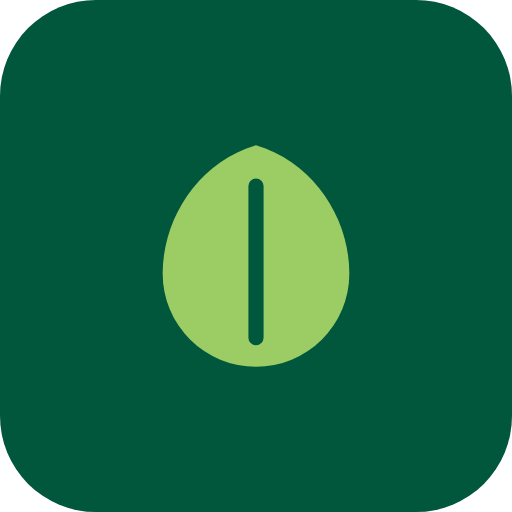
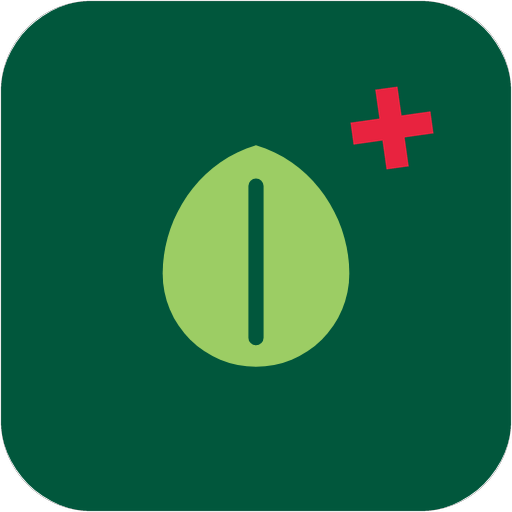
style(bideplus): el + de Bide+ en los iconos de Bizkaibus+, Metro+ y Euskotren+

Changed region(s): [[0.6875, 0.1562, 0.8438, 0.3438]]

diff --git a/bideplus/sw.js b/bideplus/sw.js
@@ -1,6 +1,6 @@
 importScripts('/js/alerts-store.js');
 
-const CACHE_VERSION = 'v10';
+const CACHE_VERSION = 'v11';
 const CACHE_NAME = 'bizkaibus-shell-' + CACHE_VERSION;
 const API_CACHE_NAME = 'bizkaibus-api-' + CACHE_VERSION;
 const LIVE_API = /\/(departures|live|vehicles|alerts|nearby)(\/|\?|$)/;
